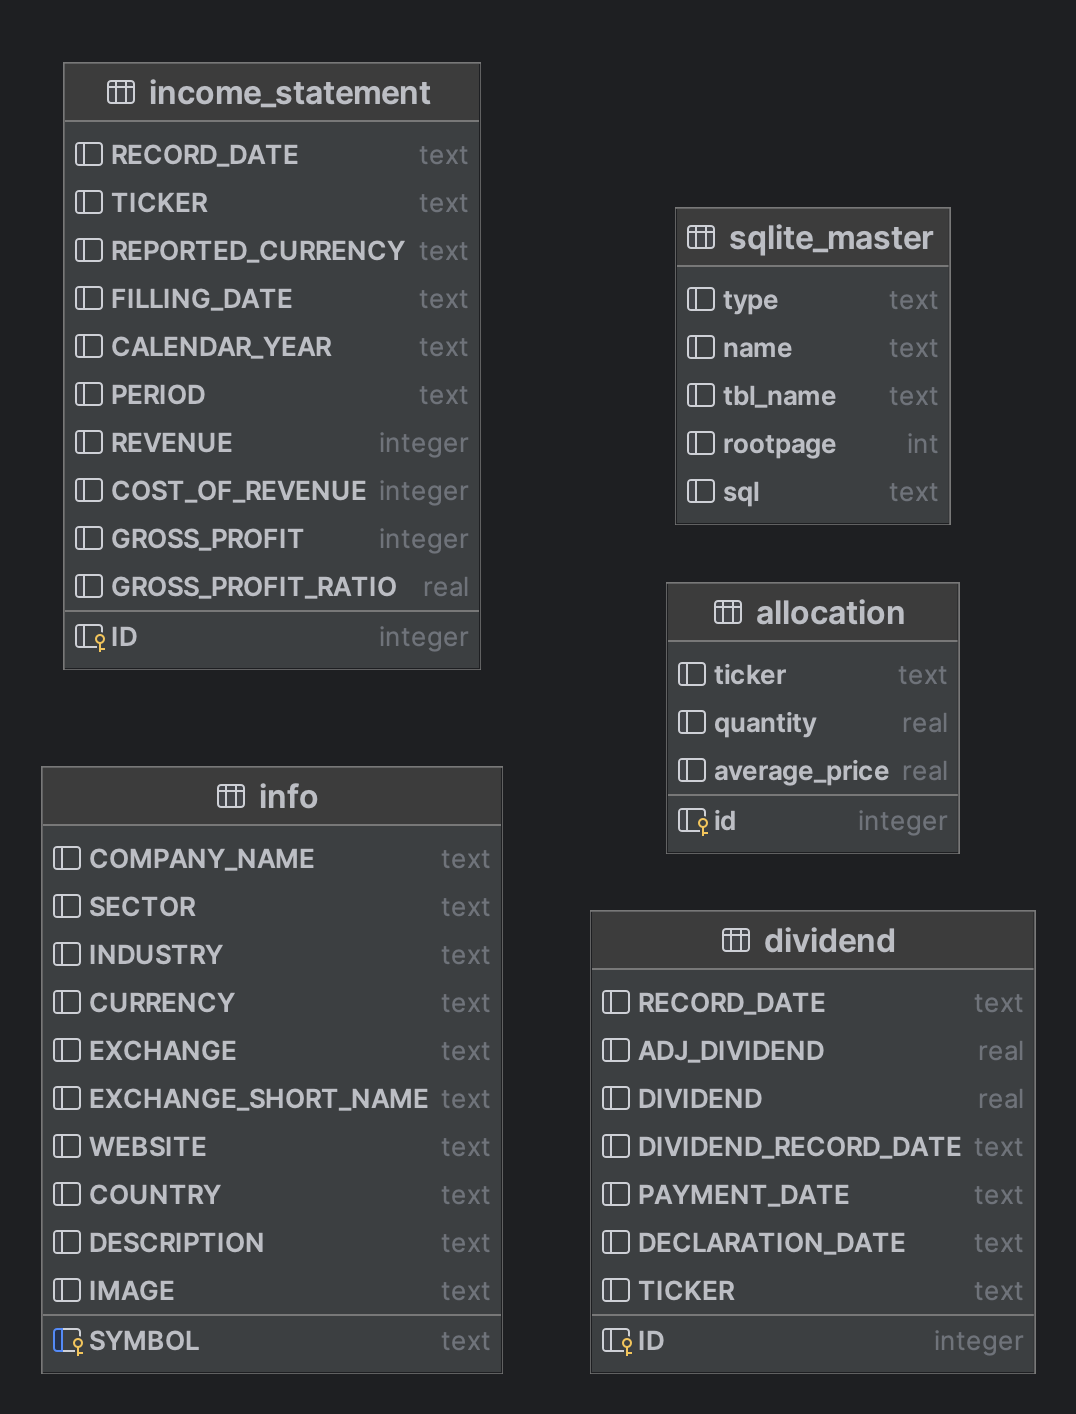
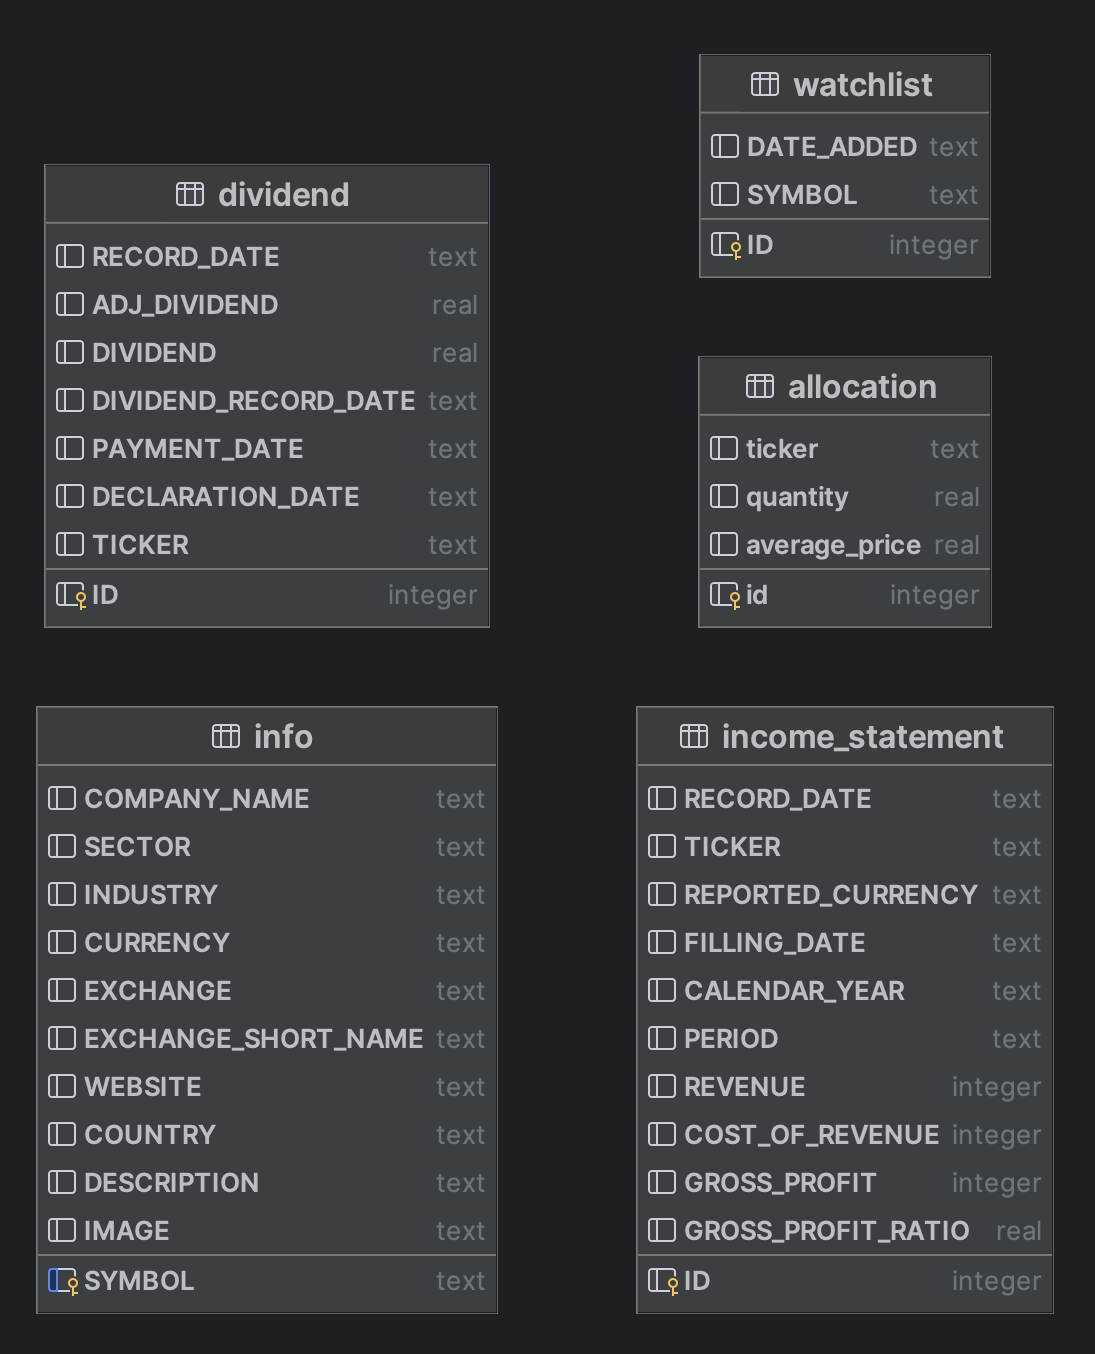
#2: Add code to create missing tables.

Changed region(s): [[0.0307, 0.031, 0.4907, 0.9926], [0.552, 0.031, 0.9814, 0.9926]]

diff --git a/db_manager/dividend.py b/db_manager/dividend.py
@@ -1,0 +1,76 @@
+"""Dividend table management."""
+
+import sqlite3
+import requests
+import pandas as pd
+from collections import namedtuple
+
+DividendData = namedtuple(typename="DividendData", field_names=["data", "ticker", "available"])
+
+
+def create_dividend_table() -> None:
+    """Create and replace dividend table."""
+    conn = sqlite3.connect('dividend_printer.db')
+    c = conn.cursor()
+    c.execute('DROP TABLE IF EXISTS dividend')
+    c.execute("""
+    CREATE TABLE dividend (
+        ID INTEGER PRIMARY KEY,
+        RECORD_DATE TEXT,
+        ADJ_DIVIDEND REAL,
+        DIVIDEND REAL,
+        DIVIDEND_RECORD_DATE TEXT,
+        PAYMENT_DATE TEXT,
+        DECLARATION_DATE TEXT,
+        TICKER TEXT
+    )
+    """)
+    conn.commit()
+    conn.close()
+
+
+def get_dividend_history(ticker: str) -> DividendData:
+    """Get dividend history."""
+    url = f"https://financialmodelingprep.com/api/v3/historical-price-full/stock_dividend/{ticker}?apikey=c7be3bdfd7df35380203e081623718cf"
+    response = requests.get(url)
+    data = response.json()
+    return DividendData(data=data, ticker=ticker, available=bool(data["historical"]))
+
+
+def transform_(_dividends: DividendData) -> pd.DataFrame:
+    """Prepare dividends to insert into table."""
+    return (
+        pd.DataFrame(_dividends.data["historical"])
+        .sort_values(by="recordDate", ascending=False)
+        .reset_index(drop=True)
+        .drop(columns="label")
+        .assign(ticker=_dividends.ticker)
+        .rename(columns={
+            "date": "record_date",
+            "adjDividend": "adj_dividend",
+            "recordDate": "dividend_record_date",
+            "paymentDate": "payment_date",
+            "declarationDate": "declaration_date"
+        })
+    )
+
+
+def insert_into_dividend_table(dividend: pd.DataFrame) -> None:
+    """Insert into dividend table."""
+    conn = sqlite3.connect("dividend_printer.db")
+    dividend.to_sql(name="dividend", con=conn, if_exists="append", index=False)
+    conn.commit()
+    conn.close()
+
+
+def update_dividends(stocks: pd.DataFrame) -> None:
+    """Update dividends."""
+    for stock in stocks.SYMBOL:
+        print(stock)
+        dividends = get_dividend_history(stock)
+        if dividends.available and dividends.ticker not in ["PL", "HCP"]:  # API bug
+            dividend_data: pd.DataFrame = transform_(dividends)
+            dividend_data.columns = dividend_data.columns.str.upper()
+            insert_into_dividend_table(dividend_data)
+        else:
+            print(f"Stock {stock} pays no dividend.")

diff --git a/db_manager/income_statement.py b/db_manager/income_statement.py
@@ -1,0 +1,73 @@
+"""Income statement table management."""
+
+import sqlite3
+import requests
+import pandas as pd
+
+
+def create_income_statement_table() -> None:
+    """Create income statement table."""
+    conn = sqlite3.connect('dividend_printer.db')
+    c = conn.cursor()
+    c.execute('DROP TABLE IF EXISTS income_statement')
+    c.execute("""
+    CREATE TABLE income_statement (
+        ID INTEGER PRIMARY KEY,
+        RECORD_DATE TEXT,
+        TICKER TEXT,
+        REPORTED_CURRENCY TEXT,
+        FILLING_DATE TEXT,
+        CALENDAR_YEAR TEXT,
+        PERIOD TEXT,
+        REVENUE INTEGER,
+        COST_OF_REVENUE INTEGER,
+        GROSS_PROFIT INTEGER,
+        GROSS_PROFIT_RATIO REAL
+    )
+    """)
+    conn.commit()
+    conn.close()
+
+
+def get_quarterly_income_statement(ticker: str) -> pd.DataFrame:
+    """Get quarterly income statement information."""
+    response = requests.get(f"https://financialmodelingprep.com/api/v3/income-statement/{ticker}?period=quarter&apikey=c7be3bdfd7df35380203e081623718cf")
+    income_statement = pd.DataFrame(response.json())
+    return income_statement[[
+        "date",
+        "symbol",
+        "reportedCurrency",
+        "fillingDate",
+        "calendarYear",
+        "period",
+        "revenue",
+        "costOfRevenue",
+        "grossProfit",
+        "grossProfitRatio",
+    ]].rename(columns={
+        "date": "record_date",
+        "symbol": "ticker",
+        "reportedCurrency": "reported_currency",
+        "fillingDate": "filling_date",
+        "calendarYear": "calendar_year",
+        "costOfRevenue": "cost_of_revenue",
+        "grossProfit": "gross_profit",
+        "grossProfitRatio": "gross_profit_ratio",
+    }).reset_index(drop=True)
+
+
+def insert_into_income_statement_table(income_statement: pd.DataFrame) -> None:
+    """Insert into the income_statement table."""
+    conn = sqlite3.connect("dividend_printer.db")
+    income_statement.to_sql(name="income_statement", con=conn, if_exists="append", index=False)
+    conn.commit()
+    conn.close()
+
+
+def update_income_statement(stocks: pd.DataFrame) -> None:
+    """Update the income statement table."""
+    for stock in stocks.SYMBOL:
+        print(stock)
+        income_statement = get_quarterly_income_statement(stock)
+        income_statement.columns = income_statement.columns.str.upper()
+        insert_into_income_statement_table(income_statement)

diff --git a/db_manager/info.py b/db_manager/info.py
@@ -1,0 +1,72 @@
+"""Info table management."""
+
+import sqlite3
+import requests
+import pandas as pd
+
+
+INFO_COLUMNS: list[str] = [
+    "symbol",
+    "companyName",
+    "sector",
+    "industry",
+    "currency",
+    "exchange",
+    "exchangeShortName",
+    "website",
+    "country",
+    "description",
+    "image",
+]
+
+
+def create_info_table() -> None:
+    """Create info table."""
+    conn = sqlite3.connect('dividend_printer.db')
+    c = conn.cursor()
+    c.execute('DROP TABLE IF EXISTS info')
+    c.execute("""
+    CREATE TABLE info (
+        ID INTEGER PRIMARY KEY,
+        SYMBOL TEXT,
+        COMPANY_NAME TEXT,
+        SECTOR TEXT,
+        INDUSTRY TEXT,
+        CURRENCY TEXT,
+        EXCHANGE TEXT,
+        EXCHANGE_SHORT_NAME TEXT,
+        WEBSITE TEXT,
+        COUNTRY TEXT,
+        DESCRIPTION TEXT,
+        IMAGE TEXT
+    )
+    """)
+    conn.commit()
+    conn.close()
+
+
+def get_stock_info(ticker: str) -> pd.DataFrame:
+    """Get stock information."""
+    response = requests.get(f"https://financialmodelingprep.com/api/v3/profile/{ticker}?apikey=c7be3bdfd7df35380203e081623718cf")
+    info = pd.DataFrame(response.json())
+    return info
+
+
+def insert_into_info_table(info: pd.DataFrame) -> None:
+    """Insert into the info table."""
+    conn = sqlite3.connect("dividend_printer.db")
+    info.to_sql(name="info", con=conn, if_exists="append", index=False)
+    conn.commit()
+    conn.close()
+
+
+def update_info(stocks: pd.DataFrame) -> None:
+    """Update info."""
+    for stock in stocks.SYMBOL:
+        print(stock)
+        info = (
+            get_stock_info(stock)[INFO_COLUMNS]
+            .rename(columns={"companyName": "company_name", "exchangeShortName": "exchange_short_name"})
+        )
+        info.columns = info.columns.str.upper()
+        insert_into_info_table(info)

diff --git a/db_manager/allocation.py b/db_manager/allocation.py
@@ -31,23 +31,23 @@ def get_columns(portfolio: pd.DataFrame) -> pd.DataFrame:
 
 def create_allocation_table() -> None:
     """Create and replace allocation table."""
-    conn = sqlite3.connect("dividend_printer.db")
+    conn = sqlite3.connect('dividend_printer.db')
     c = conn.cursor()
-    c.execute("DROP TABLE IF EXISTS allocation")
-    c.execute(
-        """
+    c.execute('DROP TABLE IF EXISTS allocation')
+    c.execute("""
     CREATE TABLE allocation (
-        SYMBOL TEXT PRIMARY KEY ,
+        ID INTEGER PRIMARY KEY,
+        RECORD_DATE TEXT,
+        SYMBOL TEXT,
         QUANTITY REAL,
         AVERAGE_PRICE REAL
     )
-    """
-    )
+    """)
     conn.commit()
     conn.close()
 
 
-def get_allocation_dataframe() -> pd.DataFrame:
+def create_allocation_dataframe() -> pd.DataFrame:
     """Create allocation dataframe."""
     allocation: pd.DataFrame = (
         get_portfolio_allocation(os.getenv("TRADING_API_KEY"))
@@ -59,3 +59,18 @@ def get_allocation_dataframe() -> pd.DataFrame:
     )
     allocation.columns = allocation.columns.str.upper()
     return allocation
+
+
+def insert_into_allocation_table(allocation: pd.DataFrame) -> None:
+    """Insert into the allocation table."""
+    conn = sqlite3.connect("dividend_printer.db")
+    allocation.to_sql(name="allocation", con=conn, if_exists="append", index=False)
+    conn.commit()
+    conn.close()
+
+
+def update_allocation_table() -> None:
+    """Update the allocation table."""
+    create_allocation_table()
+    allocation = create_allocation_dataframe()
+    insert_into_allocation_table(allocation)

diff --git a/README.md b/README.md
@@ -1,6 +1,76 @@
 # Dividend Printer
 Tool for tracking and analysing dividend stocks.
 
+This is the prototype version of the application. <u>**Executing the code recreates all tables at this point.**</u>
+
+# Execution
+
+All tables, apart from the allocation, are created using [Financial Modelling Prep API](https://site.financialmodelingprep.com/developer/docs). 
+
+## Allocation
+
+The allocation is fetched using [Trading 212 API](https://t212public-api-docs.redoc.ly/).
+
+You can get your portfolio from:
+- Demo endpoint: https://demo.trading212.com/api/v0/equity/portfolio
+- Live endpoint: https://live.trading212.com/api/v0/equity/portfolio
+
+You can generate an API key for both in Trading 212 app.
+
+```python
+from db_manager.allocation import (
+    create_allocation_table,
+    create_allocation_dataframe,
+    insert_into_allocation_table
+)
+
+create_allocation_table()
+allocation = create_allocation_dataframe()
+insert_into_allocation_table(allocation)
+```
+
+## Dividends
+
+```python
+import pandas as pd
+from db_manager.allocation import create_allocation_dataframe
+from db_manager.dividend import create_dividend_table, update_dividends
+
+allocation: pd.DataFrame = create_allocation_dataframe()
+
+create_dividend_table()
+update_dividends(allocation)
+```
+
+## Income statement
+
+```python
+import pandas as pd
+from db_manager.allocation import create_allocation_dataframe
+from db_manager.income_statement import create_income_statement_table, update_income_statement
+
+allocation: pd.DataFrame = create_allocation_dataframe()
+
+create_income_statement_table()
+update_income_statement(allocation)
+```
+
+## Info
+
+```python
+import pandas as pd
+from db_manager.allocation import create_allocation_dataframe
+from db_manager.info import create_info_table, update_info
+
+allocation: pd.DataFrame = create_allocation_dataframe()
+
+create_info_table()
+update_info(allocation)
+```
+
+## Watchlist
+
+TBD
 
 # Database
 
